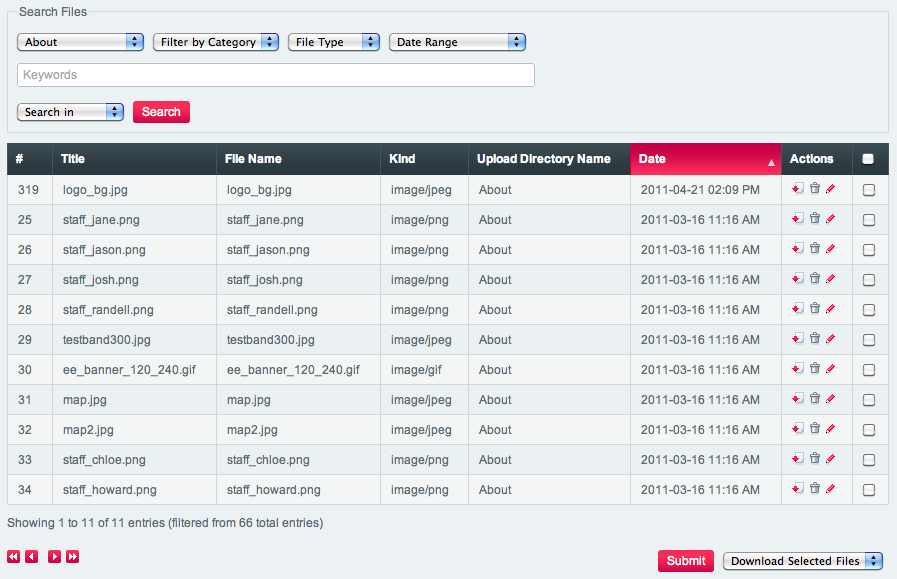
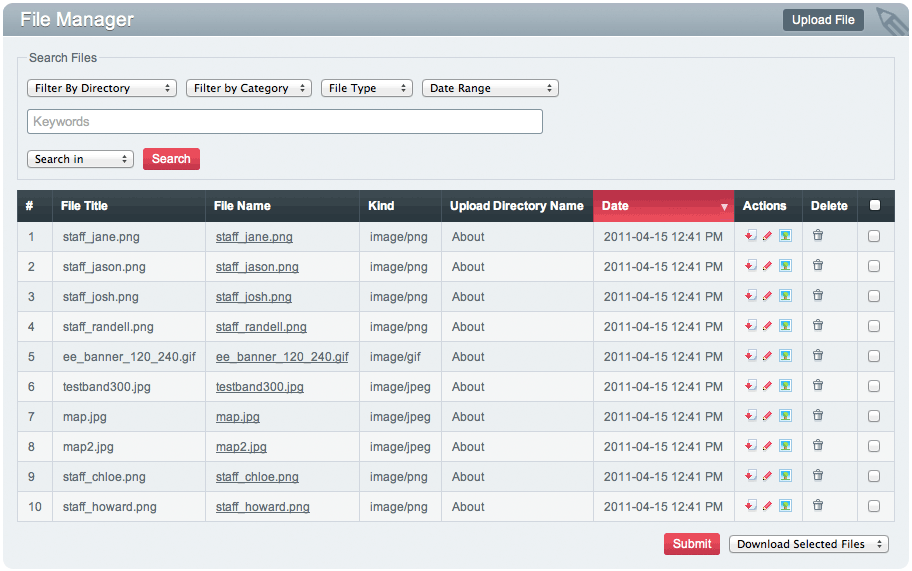
Updating the File Manager documentation page

diff --git a/source/cp/content/files/file_manager.rst b/source/cp/content/files/file_manager.rst
@@ -5,12 +5,11 @@ File Manager
 
 **Control Panel Location:** :menuselection:`Content --> Files --> File Manager`
 
-On the main File Manager page, you can view all of your previously
-uploaded files. Files are filterably by by upload location, category,
-file type and date range, as well as being searchable. In addition, you
-can select multiple files using the checkboxes on the right, then you
-can either download the files or delete them using the option menu at
-the bottom of the page.
+On the main File Manager page you can view all of your previously
+uploaded files. Files can be searched by keyword as well as filtered by
+upload location, category, type and date. You can also select multiple
+files using the checkboxes on the right, and then download the files or delete
+them using the dropdown menu at the bottom of the page.
 
 Main File View
 --------------
@@ -29,9 +28,11 @@ The Main File View shows the following columns:
    resides.
 -  **Date**: The date the file was uploaded.
 -  **Actions**: Three actions you can perform on the file: download,
-   delete, and edit.
+   edit metadata, and image manipulation (crop, rotate or resize).
+-  **Delete**: Deletes the file.
 
 |File Manager Quick Look|
+
 Clicking on an image’s File Name will bring up an overlay showing you
 the image.
 
@@ -42,16 +43,19 @@ Files can be uploaded from the File Manager to any of the directories
 available to you. Start by clicking the Upload button.
 
 |File Manager File Upload|
+
 Then, select the upload directory where you want the file to go and then
 select your file and click Upload File.
 
 |File Manager File Upload Success|
+
 After the file is uploaded, you’ll be shown a summary of the file,
 including a thumbnail and some file details. Note that the filename is
 automatically sanitized to remove spaces and other disallowed characters
 and the file renamed if necessary.
 
 |image5|
+
 If you close the dialog by either clicking the close button in the top
 right corner or by clicking Browse Files on the bottom, you’ll be shown
 the file table again, with the most recent file on the top.
@@ -64,15 +68,22 @@ Download File
 
 |Download File Icon| Clicking this icon will download the file.
 
+Edit File
+~~~~~~~~~
+
+|Edit File Icon| Clicking this icon will allow you to edit the file's
+metadata.
+
+Edit Image
+~~~~~~~~~~
+
+|Edit Image Icon| If the file is an image, clicking this icon will allow you
+to rotate, crop or resize the image.
+
 Delete File
 ~~~~~~~~~~~
 
 |Delete File Icon| Clicking this icon will delete the file.
-
-Edit File
-~~~~~~~~~
-
-|Edit File Icon| Clicking this icon will take you to the edit file page.
 
 Batch File Actions
 ------------------
@@ -96,5 +107,6 @@ using this option.
 .. |File Manager File Upload Success| image:: ../../../images/files/upload_successful.png
 .. |image5| image:: ../../../images/files/highlighted_row.png
 .. |Download File Icon| image:: ../../../images/files/icon_download.png
-.. |Delete File Icon| image:: ../../../images/files/icon_delete.png
 .. |Edit File Icon| image:: ../../../images/files/icon_edit.png
+.. |Edit Image Icon| image:: ../../../images/files/icon_image.png
+.. |Delete File Icon| image:: ../../../images/files/icon_delete.png
